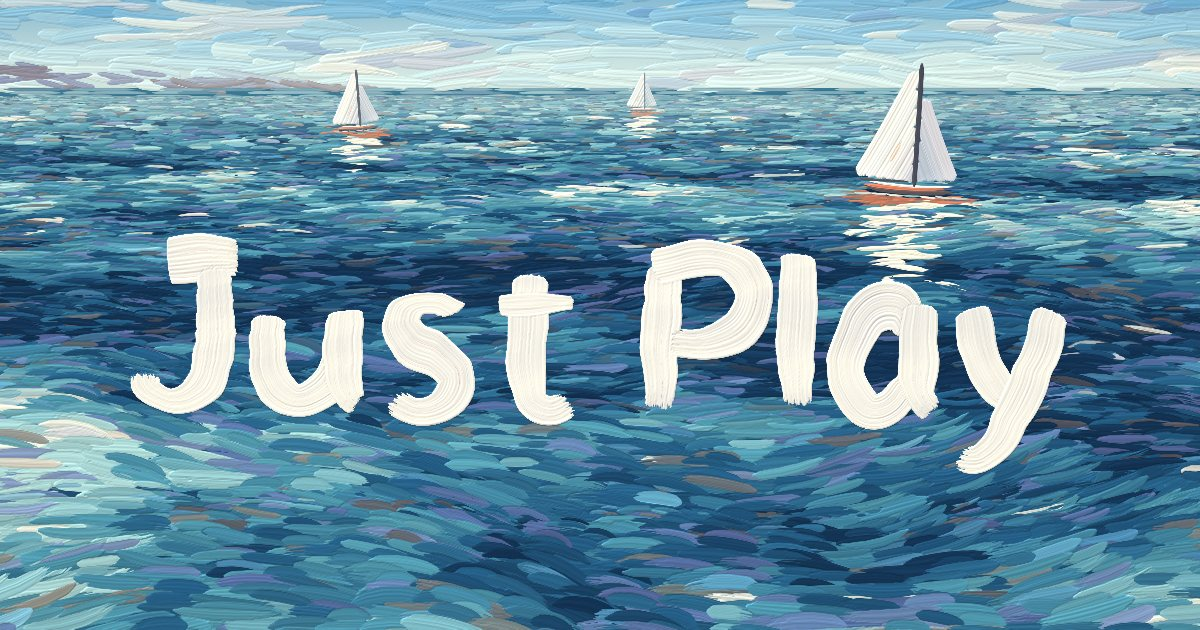
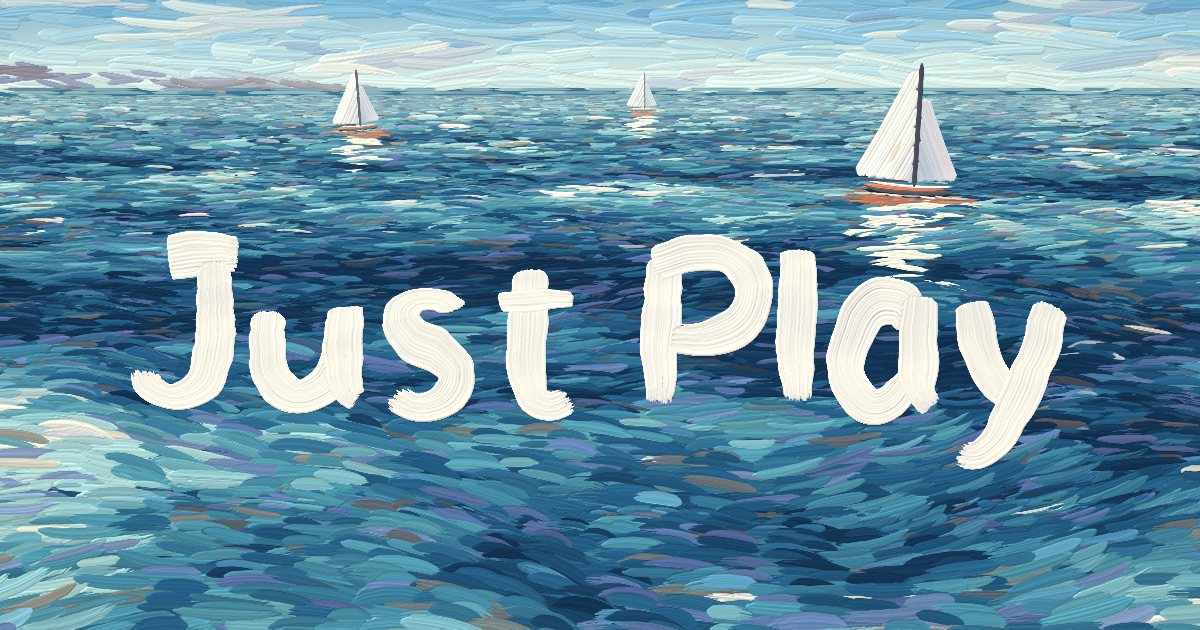
Fit the first screen to any size; chart reads at every distance
Cause: on short phones and wide laptops the title, the waiting stone and its ring were placed by fixed numbers, so they crowded each other or the "Tap to throw" label; on the chart, a throw past 2400 m drew off the right edge and "further than 0 of every 100" read wrong; reading copy lived in components.

Fix: the waiting stone is placed so its whole ring clears the label, the title is sized to fit between the boats and the stone, and tall screens use the same shape test as the CSS. The chart heap follows its smoothed outline, the bar and label stay inside, and the rank wording covers none and all. Copy moved to src/content/home.ts.

Check: served build at 390x844, 375x667, 320x568, 768x1024, 844x390, 1280x720, 1440x900, idle and mid-throw; chart at 3, 41, 300, 560, 1300 and 2600 m. Stills repainted.

diff --git a/src/components/Read.tsx b/src/components/Read.tsx
@@ -1,6 +1,7 @@
 "use client";
 
 import { useEffect, useRef } from "react";
+import { fill, NB } from "@/content/fill";
 import { homeContent } from "@/content/home";
 import { useSession } from "@/sea/session";
 import { beats, crowd } from "@/sea/crowd";
@@ -11,6 +12,7 @@ import { mulberry } from "@/sea/strokes";
 const t = homeContent.read;
 const FAR = 2400, BEND = 60; // metres at the right edge, and how soon the scale starts to squeeze
 const REVEAL = 900; // milliseconds
+const PULL = 22; // width of the visitor's bar, in pixels
 const at = (m: number) => Math.log1p(Math.min(m, FAR) / BEND) / Math.log1p(FAR / BEND);
 
 /** One coral pull of the wide brush, for the visitor's own throw. */
@@ -86,8 +88,8 @@ function Chart({ best }: { best: number }) {
       });
       el.parentElement!.style.setProperty("--you", `${Math.round(tall)}px`);
       if (best > 0) {
-        g.save(); g.translate(at(best) * w, h - 2); g.rotate(-Math.PI / 2);
-        g.drawImage(pull, 0, -11, tall * Math.min(1, k * 1.2), 22);
+        g.save(); g.translate(Math.max(PULL / 2, Math.min(w - PULL / 2, at(best) * w)), h - 2); g.rotate(-Math.PI / 2);
+        g.drawImage(pull, 0, -PULL / 2, tall * Math.min(1, k * 1.2), PULL);
         g.restore();
       }
     };
@@ -115,7 +117,12 @@ export default function Read() {
   const n = s.runs.length;
   const best = s.runs.reduce((m, r) => Math.max(m, r.metres), 0);
   const say = n === 0 ? t.before : n === 1 ? t.after.one : n < 4 ? t.after.few : t.after.many;
-  const seconds = (ms: number) => (ms < 60_000 ? `${Math.max(1, Math.round(ms / 1000))} s` : `${Math.floor(ms / 60_000)} min ${Math.round((ms % 60_000) / 1000)} s`);
+  const seconds = (ms: number) => (ms < 60_000 ? `${Math.max(1, Math.round(ms / 1000))}${NB}s` : `${Math.floor(ms / 60_000)}${NB}min ${Math.round((ms % 60_000) / 1000)}${NB}s`);
+  const share = beats(best);
+  const rank = share === 0 ? t.rank.none : share === 100 ? t.rank.all : t.rank.some;
+  const visit = fill(t.visit.replace("{rank}", rank), {
+    look: seconds(s.firstTapMs ?? 0), throws: fill(t.throws[Math.min(n, 3) - 1] ?? "", { n }), play: seconds(s.playedMs), best: `${best}${NB}m`, share,
+  });
   const toSea = () => { window.scrollTo({ top: 0, behavior: "smooth" }); document.querySelector<HTMLElement>(".sea-play")?.focus({ preventScroll: true }); };
 
   return (
@@ -124,7 +131,7 @@ export default function Read() {
         <h2>{say.title}</h2>
         {n > 0 && (
           <p className="lede">
-            You looked at the sea for <strong>{seconds(s.firstTapMs ?? 0)}</strong> before touching it, then threw <strong>{n === 1 ? "once" : n === 2 ? "twice" : `${n} times`}</strong> in <strong>{seconds(s.playedMs)}</strong> of play. Your best went <strong>{best} m</strong>, further than <strong>{beats(best)}</strong> of every 100 players in the chart.
+            {visit.split("*").map((part, i) => (i % 2 ? <strong key={i}>{part}</strong> : part))}
           </p>
         )}
         <p className="lede">{say.body}</p>
@@ -132,7 +139,7 @@ export default function Read() {
       </div>
       <div className="chart">
         <Chart best={best} />
-        {best > 0 && <p className="chart-you" style={{ left: `${at(best) * 100}%` }} data-side={at(best) > 0.8 ? "left" : "right"}>{t.you}, {best} m</p>}
+        {best > 0 && <p className="chart-you" style={{ left: `clamp(${PULL / 2}px, ${at(best) * 100}%, 100% - ${PULL / 2}px)` }} data-side={at(best) > 0.8 ? "left" : "right"}>{t.you}, {best} m</p>}
         <ul>
           {DAY.map((d) => <li key={d.name} style={{ left: `${at(d.at) * 100}%` }}><b>{d.name}</b>{d.at} m</li>)}
         </ul>

diff --git a/src/components/Sea.tsx b/src/components/Sea.tsx
@@ -1,6 +1,8 @@
 "use client";
 
 import { useEffect, useRef, useState } from "react";
+import { fill } from "@/content/fill";
+import type { homeContent } from "@/content/home";
 import { World } from "@/sea/world";
 import { session } from "@/sea/session";
 
@@ -11,7 +13,7 @@ const MUTE_KEY = "sorolla-muted";
 /** Metres after which the sky is dark enough for light lettering. */
 const DARK_SKY = 520;
 
-type Words = { throw: string; time: string; again: string; read: string; sank: string };
+type Words = typeof homeContent.hero.sea;
 
 export default function Sea({ words, children }: { words: Words; children?: React.ReactNode }) {
   const sea = useRef<HTMLDivElement>(null);
@@ -103,7 +105,7 @@ export default function Sea({ words, children }: { words: Words; children?: Reac
       <button
         type="button"
         className="sea-play"
-        aria-label={phase === "run" ? "Tap when the stone meets the water" : "Skip a stone across the sea"}
+        aria-label={phase === "run" ? words.label.time : words.label.throw}
         onPointerMove={(e) => {
           const r = e.currentTarget.getBoundingClientRect();
           world.current?.point(((e.clientX - r.left) / r.width) * 2 - 1, 1 - ((e.clientY - r.top) / r.height) * 2);
@@ -128,14 +130,14 @@ export default function Sea({ words, children }: { words: Words; children?: Reac
             <p className="sea-total">{result.metres}<small>m</small></p>
             <p className="sea-how">
               {result.skips === 0 ? words.sank : (
-                <>{result.skips} {result.skips === 1 ? "skip" : "skips"}{result.light === "noon" ? ". Still noon." : `, noon to ${result.light}.`} {result.fresh ? "Your best." : `Your best is ${result.best} m.`}</>
+                <>{fill(words.skips[result.skips === 1 ? 0 : 1], { n: result.skips })}{result.light === "noon" ? words.noon : fill(words.later, { light: result.light })} {result.fresh ? words.fresh : fill(words.best, { m: result.best })}</>
               )}
             </p>
             <a className="textlink" href="#read">{words.read}</a>
           </div>
         )}
       </div>
-      <button type="button" className="sea-sound" onClick={toggle} aria-pressed={!muted} aria-label={muted ? "Turn sound on" : "Turn sound off"}>
+      <button type="button" className="sea-sound" onClick={toggle} aria-pressed={!muted} aria-label={muted ? words.label.soundOn : words.label.soundOff}>
         <svg viewBox="0 0 24 24" width="22" height="22" fill="none" stroke="currentColor" strokeWidth="2.2" strokeLinecap="round" strokeLinejoin="round" aria-hidden="true">
           <path d="M4 9.5v5h3.5L12 18.5v-13L7.5 9.5z" fill="currentColor" />
           {muted ? <path d="M16 9.5l5 5m0-5l-5 5" /> : <path d="M15.5 9a4.2 4.2 0 010 6M18.3 6.5a8 8 0 010 11" />}

diff --git a/src/sea/world.ts b/src/sea/world.ts
@@ -1,7 +1,7 @@
 import { Painter, type Boat, type Frame, type Ripple } from "./painter";
 import { lightAt, lightName, type Light, type Rgb } from "./light";
 import { StrokeList, mix, paintBoat, paintEdge, paintSky } from "./strokes";
-import { CAP, lettering, measure } from "./lettering";
+import { CAP, lettering, measure, standing } from "./lettering";
 import { RULES, Run, type Hit } from "./rules";
 import { SeaAudio } from "./audio";
 import { FLAT } from "./brush";
@@ -20,7 +20,8 @@ const FEEL = {
   drawTitle: 1.5, titleBack: 0.55,
   lightSpeed: 1.6,                    // how fast the day answers to distance
   retryLock: 0.45, idleAfter: 5.5,
-  idleHop: 1.15, idleHeight: 0.09,
+  idleHop: 1.15, idleHeight: 0.09, idleTop: 0.24, // the last is how high the waiting stone reaches
+  headroom: 70,                       // pixels of sky the header needs above the horizon
   sway: 0.22,
   lookUp: 0.22, lookFrom: 40, lookTo: 320, // a longer throw is rewarded with more of the sky
   teach: 2, teachFrom: 0.2, teachHold: 4, // a visitor's first touches slow down and wait this long for the tap
@@ -136,13 +137,15 @@ export class World {
     const tall = this.tall = matchMedia(TALL).matches;
     this.baseFocal = tall ? 1.75 : 2;
     this.focal = this.baseFocal;
-    this.horizon = this.baseHorizon = this.opts.still?.horizon ?? (tall ? 0.74 : 0.72);
+    this.horizon = this.baseHorizon = this.opts.still?.horizon ?? Math.min(tall ? 0.74 : 0.72, 1 - (2 * FEEL.headroom) / h);
     // the waiting stone sits as near as it can with its whole ring above the label
     const { shut, idle, from, floor } = FEEL.ring;
     this.idleLead = (shut + idle * from) * OVAL + (this.baseFocal * FEEL.camHeight) / (this.horizon + 1 - (2 * floor) / h);
     const lines = tall ? ["Just", "Play"] : ["Just Play"];
-    const unit = Math.min((2 * this.aspect * 0.76) / Math.max(...lines.map(measure)), tall ? 0.245 : 0.66 / CAP);
-    const cy = tall ? 0.1 : -0.07;
+    // the title keeps between the boats and the top of the stone's hop
+    const low = this.horizon - (this.baseFocal * (FEEL.camHeight - FEEL.idleTop)) / this.idleLead + 0.045, high = this.horizon - 0.14;
+    const unit = Math.min((2 * this.aspect * 0.76) / Math.max(...lines.map(measure)), tall ? 0.245 : 0.66 / CAP, (high - low) / standing(lines.length));
+    const cy = Math.max(tall ? 0.1 : -0.07, low + (standing(lines.length) * unit) / 2);
     const t = lettering(lines, { unit, cx: 0, cy }, { focal: this.baseFocal, horizon: this.horizon, camH: FEEL.camHeight });
     this.painter.setLettering(t);
     this.titleBox = [0, cy, t.halfW, t.halfH];

diff --git a/src/content/home.ts b/src/content/home.ts
@@ -3,7 +3,12 @@ export const homeContent = {
     title: "Just Play",
     line: "Sorolla publishes mobile games. Send us yours and we will tell you what players do with it.",
     button: "Send us your game",
-    sea: { throw: "Tap to throw", time: "Tap as the ring closes", again: "Tap to throw again", read: "See how that reads", sank: "It sank. Tap again each time the ring closes on it." },
+    sea: {
+      throw: "Tap to throw", time: "Tap as the ring closes", again: "Tap to throw again", read: "See how that reads",
+      sank: "It sank. Tap again each time the ring closes on it.",
+      skips: ["1 skip", "{n} skips"], noon: ". Still noon.", later: ", noon to {light}.", fresh: "Your best.", best: "Your best is {m} m.",
+      label: { throw: "Skip a stone across the sea", time: "Tap when the stone meets the water", soundOn: "Turn sound on", soundOff: "Turn sound off" },
+    },
   },
   read: {
     before: {
@@ -17,6 +22,10 @@ export const homeContent = {
       few: { title: "You threw again.", body: "Nobody asked you to. A second go is the first thing we look for in a prototype, before anyone talks about money." },
       many: { title: "You kept throwing.", body: "Nobody asked you to. Coming straight back is the best sign a prototype can give, and it shows in the first minute." },
     },
+    // the parts between stars are bold
+    visit: "You looked at the sea for *{look}* before touching it, then threw *{throws}* in *{play}* of play. Your best went *{best}*, {rank}.",
+    throws: ["once", "twice", "{n} times"],
+    rank: { none: "and all 500 players in the chart went further", some: "further than *{share}* of every 100 players in the chart", all: "further than all 500 players in the chart" },
     chart: "500 simulated players, each one a dab of paint, placed by how far their best throw went. Nothing about your visit leaves this page.",
     you: "You",
   },

diff --git a/src/sea/crowd.ts b/src/sea/crowd.ts
@@ -12,5 +12,8 @@ export function crowd(): number[] {
   return cached;
 }
 
-/** How many of a hundred simulated players you beat. */
-export const beats = (metres: number) => Math.round((crowd().filter((m) => m < metres).length / N) * 100);
+/** How many of a hundred simulated players you beat: 0 only for none of them, 100 only for all. */
+export function beats(metres: number) {
+  const share = crowd().filter((m) => m < metres).length / N;
+  return share === 0 || share === 1 ? share * 100 : Math.min(99, Math.max(1, Math.round(share * 100)));
+}

diff --git a/src/sea/lettering.ts b/src/sea/lettering.ts
@@ -39,6 +39,8 @@ const GAP = 0.31;      // between letters
 const HALF = 0.182;    // half width of the brush
 const LINE = 1.86;     // line to line
 export const CAP = 1.43;
+/** How tall so many lines stand with the brush's own width, in units. */
+export const standing = (lines: number) => CAP + (lines - 1) * LINE + 2 * HALF;
 
 function spline(p: Pt[], per = 9): Pt[] {
   const out: Pt[] = [];

diff --git a/src/content/fill.ts b/src/content/fill.ts
@@ -1,0 +1,5 @@
+/** fill("Best {m} m", { m: 41 }) gives "Best 41 m". */
+export const fill = (text: string, values: Record<string, string | number>) => text.replace(/\{(\w+)\}/g, (all, k) => (k in values ? String(values[k]) : all));
+
+/** A space that never breaks a number from its unit. */
+export const NB = "\u{a0}";
